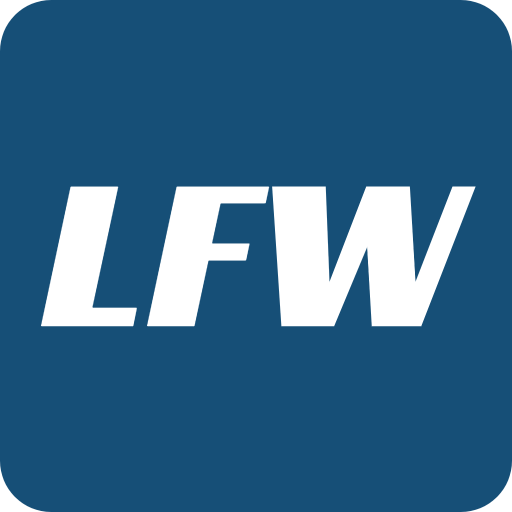
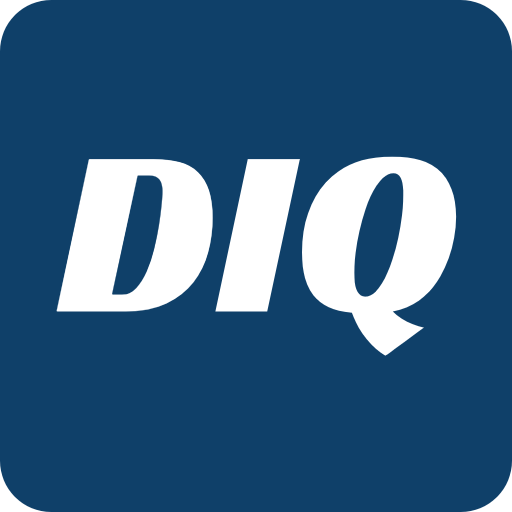
DIQ-setup: continued — Note special items
DIQ has custom templates for /server/templates/magazine/index.marko and /server/templates/subscribe/index.marko, as well as an additional template in /server/templates/website-section —> products-free-samples.marko

Changed region(s): [[0.0625, 0.2812, 0.9375, 0.6875]]

diff --git a/sites/dentistryiq/config/gam.js b/sites/dentistryiq/config/gam.js
@@ -31,45 +31,85 @@ config
     { name: 'load-more', templateName: 'CONTENT', path: 'dental-hygiene/load-more' },
     { name: 'reskin', path: 'dental-hygiene/reskin' },
   ])
-  .setAliasAdUnits('lasers-sources', [
-    { name: 'lb1', templateName: 'LB', path: 'lasers-sources/lb1' },
-    { name: 'lb2', templateName: 'LB', path: 'lasers-sources/lb2' },
-    { name: 'rail1', templateName: 'CONTENT', path: 'lasers-sources/rail1' },
-    { name: 'rail2', templateName: 'CONTENT', path: 'lasers-sources/rail2' },
-    { name: 'load-more', templateName: 'CONTENT', path: 'lasers-sources/load-more' },
-    { name: 'reskin', path: 'lasers-sources/reskin' },
+  .setAliasAdUnits('dental-hygiene/student-hygiene', [
+    { name: 'lb1', templateName: 'LB', path: 'dental-hygiene/student-hygiene/lb1' },
+    { name: 'lb2', templateName: 'LB', path: 'dental-hygiene/student-hygiene/lb2' },
+    { name: 'rail1', templateName: 'CONTENT', path: 'dental-hygiene/student-hygiene/rail1' },
+    { name: 'rail2', templateName: 'CONTENT', path: 'dental-hygiene/student-hygiene/rail2' },
+    { name: 'load-more', templateName: 'CONTENT', path: 'dental-hygiene/student-hygiene/load-more' },
+    { name: 'reskin', path: 'dental-hygiene/student-hygiene/reskin' },
   ])
-  .setAliasAdUnits('optics', [
-    { name: 'lb1', templateName: 'LB', path: 'optics/lb1' },
-    { name: 'lb2', templateName: 'LB', path: 'optics/lb2' },
-    { name: 'rail1', templateName: 'CONTENT', path: 'optics/rail1' },
-    { name: 'rail2', templateName: 'CONTENT', path: 'optics/rail2' },
-    { name: 'load-more', templateName: 'CONTENT', path: 'optics/load-more' },
-    { name: 'reskin', path: 'optics/reskin' },
+  .setAliasAdUnits('clinical', [
+    { name: 'lb1', templateName: 'LB', path: 'clinical/lb1' },
+    { name: 'lb2', templateName: 'LB', path: 'clinical/lb2' },
+    { name: 'rail1', templateName: 'CONTENT', path: 'clinical/rail1' },
+    { name: 'rail2', templateName: 'CONTENT', path: 'clinical/rail2' },
+    { name: 'load-more', templateName: 'CONTENT', path: 'clinical/load-more' },
+    { name: 'reskin', path: 'clinical/reskin' },
   ])
-  .setAliasAdUnits('fiber-optics', [
-    { name: 'lb1', templateName: 'LB', path: 'fiber-optics/lb1' },
-    { name: 'lb2', templateName: 'LB', path: 'fiber-optics/lb2' },
-    { name: 'rail1', templateName: 'CONTENT', path: 'fiber-optics/rail1' },
-    { name: 'rail2', templateName: 'CONTENT', path: 'fiber-optics/rail2' },
-    { name: 'load-more', templateName: 'CONTENT', path: 'fiber-optics/load-more' },
-    { name: 'reskin', path: 'fiber-optics/reskin' },
+  .setAliasAdUnits('clinical/endodontics', [
+    { name: 'lb1', templateName: 'LB', path: 'clinical/endodontics/lb1' },
+    { name: 'lb2', templateName: 'LB', path: 'clinical/endodontics/lb2' },
+    { name: 'rail1', templateName: 'CONTENT', path: 'clinical/endodontics/rail1' },
+    { name: 'rail2', templateName: 'CONTENT', path: 'clinical/endodontics/rail2' },
+    { name: 'load-more', templateName: 'CONTENT', path: 'clinical/endodontics/load-more' },
+    { name: 'reskin', path: 'clinical/endodontics/reskin' },
   ])
-  .setAliasAdUnits('software-accessories', [
-    { name: 'lb1', templateName: 'LB', path: 'software-accessories/lb1' },
-    { name: 'lb2', templateName: 'LB', path: 'software-accessories/lb2' },
-    { name: 'rail1', templateName: 'CONTENT', path: 'software-accessories/rail1' },
-    { name: 'rail2', templateName: 'CONTENT', path: 'software-accessories/rail2' },
-    { name: 'load-more', templateName: 'CONTENT', path: 'software-accessories/load-more' },
-    { name: 'reskin', path: 'software-accessories/reskin' },
+  .setAliasAdUnits('clinical/orthodontics', [
+    { name: 'lb1', templateName: 'LB', path: 'clinical/orthodontics/lb1' },
+    { name: 'lb2', templateName: 'LB', path: 'clinical/orthodontics/lb2' },
+    { name: 'rail1', templateName: 'CONTENT', path: 'clinical/orthodontics/rail1' },
+    { name: 'rail2', templateName: 'CONTENT', path: 'clinical/orthodontics/rail2' },
+    { name: 'load-more', templateName: 'CONTENT', path: 'clinical/orthodontics/load-more' },
+    { name: 'reskin', path: 'clinical/orthodontics/reskin' },
   ])
-  .setAliasAdUnits('test-measurement', [
-    { name: 'lb1', templateName: 'LB', path: 'test-measurement/lb1' },
-    { name: 'lb2', templateName: 'LB', path: 'test-measurement/lb2' },
-    { name: 'rail1', templateName: 'CONTENT', path: 'test-measurement/rail1' },
-    { name: 'rail2', templateName: 'CONTENT', path: 'test-measurement/rail2' },
-    { name: 'load-more', templateName: 'CONTENT', path: 'test-measurement/load-more' },
-    { name: 'reskin', path: 'test-measurement/reskin' },
+  .setAliasAdUnits('clinical/prosthodontics-and-laboratory', [
+    { name: 'lb1', templateName: 'LB', path: 'clinical/prosthodontics-and-laboratory/lb1' },
+    { name: 'lb2', templateName: 'LB', path: 'clinical/prosthodontics-and-laboratory/lb2' },
+    { name: 'rail1', templateName: 'CONTENT', path: 'clinical/prosthodontics-and-laboratory/rail1' },
+    { name: 'rail2', templateName: 'CONTENT', path: 'clinical/prosthodontics-and-laboratory/rail2' },
+    { name: 'load-more', templateName: 'CONTENT', path: 'clinical/prosthodontics-and-laboratory/load-more' },
+    { name: 'reskin', path: 'clinical/prosthodontics-and-laboratory/reskin' },
+  ])
+  .setAliasAdUnits('products', [
+    { name: 'lb1', templateName: 'LB', path: 'products/lb1' },
+    { name: 'lb2', templateName: 'LB', path: 'products/lb2' },
+    { name: 'rail1', templateName: 'CONTENT', path: 'products/rail1' },
+    { name: 'rail2', templateName: 'CONTENT', path: 'products/rail2' },
+    { name: 'load-more', templateName: 'CONTENT', path: 'products/load-more' },
+    { name: 'reskin', path: 'products/reskin' },
+  ])
+  .setAliasAdUnits('products/free-samples', [
+    { name: 'lb1', templateName: 'LB', path: 'products/free-samples/lb1' },
+    { name: 'lb2', templateName: 'LB', path: 'products/free-samples/lb2' },
+    { name: 'rail1', templateName: 'CONTENT', path: 'products/free-samples/rail1' },
+    { name: 'rail2', templateName: 'CONTENT', path: 'products/free-samples/rail2' },
+    { name: 'load-more', templateName: 'CONTENT', path: 'products/free-samples/load-more' },
+    { name: 'reskin', path: 'products/free-samples/reskin' },
+  ])
+  .setAliasAdUnits('practice-management', [
+    { name: 'lb1', templateName: 'LB', path: 'practice-management/lb1' },
+    { name: 'lb2', templateName: 'LB', path: 'practice-management/lb2' },
+    { name: 'rail1', templateName: 'CONTENT', path: 'practice-management/rail1' },
+    { name: 'rail2', templateName: 'CONTENT', path: 'practice-management/rail2' },
+    { name: 'load-more', templateName: 'CONTENT', path: 'practice-management/load-more' },
+    { name: 'reskin', path: 'practice-management/reskin' },
+  ])
+  .setAliasAdUnits('front-office', [
+    { name: 'lb1', templateName: 'LB', path: 'front-office/lb1' },
+    { name: 'lb2', templateName: 'LB', path: 'front-office/lb2' },
+    { name: 'rail1', templateName: 'CONTENT', path: 'front-office/rail1' },
+    { name: 'rail2', templateName: 'CONTENT', path: 'front-office/rail2' },
+    { name: 'load-more', templateName: 'CONTENT', path: 'front-office/load-more' },
+    { name: 'reskin', path: 'front-office/reskin' },
+  ])
+  .setAliasAdUnits('dental-assisting', [
+    { name: 'lb1', templateName: 'LB', path: 'dental-assisting/lb1' },
+    { name: 'lb2', templateName: 'LB', path: 'dental-assisting/lb2' },
+    { name: 'rail1', templateName: 'CONTENT', path: 'dental-assisting/rail1' },
+    { name: 'rail2', templateName: 'CONTENT', path: 'dental-assisting/rail2' },
+    { name: 'load-more', templateName: 'CONTENT', path: 'dental-assisting/load-more' },
+    { name: 'reskin', path: 'dental-assisting/reskin' },
   ]);
 
 module.exports = config;

diff --git a/sites/dentistryiq/config/navigation.js b/sites/dentistryiq/config/navigation.js
@@ -1,24 +1,21 @@
 module.exports = {
   primary: {
     items: [
-      { href: '/detectors-imaging', label: 'Detectors & Imaging' },
-      { href: '/lasers-sources', label: 'Lasers & Sources' },
-      { href: '/optics', label: 'Optics' },
-      { href: '/fiber-optics', label: 'Fiber Optics' },
-      { href: '/software-accessories', label: 'Software & Accessories' },
-      { href: '/test-measurement', label: 'Test & Measurement' },
+      { href: '/dental-hygiene', label: 'Dental Hygiene' },
+      { href: '/clinical', label: 'Clinical' },
+      { href: '/products', label: 'Products' },
+      { href: '/practice-management', label: 'Practice Management' },
+      { href: '/front-office', label: 'Front Office' },
+      { href: '/dental-assisting', label: 'Dental Assisting' },
     ],
   },
   secondary: {
     items: [
       { href: '/subscribe', label: 'Subscribe' },
-      { href: '/magazine', label: 'Magazine' },
       { href: '/videos', label: 'Videos' },
-      { href: '/white-papers', label: 'White Papers' },
-      { href: '/webcasts', label: 'Webcasts' },
-      { href: 'https://buyersguide.laserfocusworld.com/index.html', label: 'Buyer\'s Guide', target: '_blank' },
-      { href: 'https://laserfocusworldinnovators.secure-platform.com/a', label: 'Awards', target: '_blank' },
-      { href: 'https://www.marketplaceseminar.com/index.html', label: 'L&P Market Seminar', target: '_blank' },
+      { href: '/page/about-us', label: 'About Us' },
+      { href: 'https://pennwell.myabsorb.com', label: 'Earn CE', target: '_blank' },
+      { href: '/products/free-samples', label: 'Free Samples' },
     ],
   },
   tertiary: {
@@ -39,28 +36,26 @@ module.exports = {
     {
       label: 'Topics',
       items: [
-        { href: '/detectors-imaging', label: 'Detectors & Imaging' },
-        { href: '/lasers-sources', label: 'Lasers & Sources' },
-        { href: '/optics', label: 'Optics' },
-        { href: '/fiber-optics', label: 'Fiber Optics' },
-        { href: '/software-accessories', label: 'Software & Accessories' },
-        { href: '/test-measurement', label: 'Test & Measurement' },
-        { href: '/photonics-business', label: 'Photonics Business' },
+        { href: '/dental-hygiene', label: 'Dental Hygiene' },
+        { href: '/clinical', label: 'Clinical' },
+        { href: '/products', label: 'Products' },
+        { href: '/practice-management', label: 'Practice Management' },
+        { href: '/front-office', label: 'Front Office' },
+        { href: '/dental-assisting', label: 'Dental Assisting' },
       ],
     },
     {
       label: 'Resources',
       items: [
-        { href: '/blogs', label: 'Commentary' },
+        { href: '/front-office/office-forms', label: 'Front Office Forms' },
         { href: '/magazine', label: 'Magazine' },
         { href: '/videos', label: 'Videos' },
         { href: '/white-papers', label: 'White Papers' },
         { href: '/webcasts', label: 'Webcasts' },
-        { href: '/events', label: 'Events' },
-        { href: 'https://buyersguide.laserfocusworld.com/index.html', label: 'Buyer\'s Guide', target: '_blank' },
-        { href: 'https://laserfocusworldinnovators.secure-platform.com/a', label: 'Awards', target: '_blank' },
-        { href: 'https://www.marketplaceseminar.com/index.html', label: 'L&P Market Seminar', target: '_blank' },
-        { href: 'https://www.strategies-u.com/reports', label: 'Photonics Market Reports', target: '_blank' },
+        { href: '/blogs', label: 'Blogs' },
+        { href: '/page/submission-guidelines', label: 'Submission Guidelines' },
+        { href: 'https://pennwell.myabsorb.com', label: 'Earn CE', target: '_blank' },
+        { href: '/products/free-samples', label: 'Free Samples' },
       ],
     },
     {

diff --git a/sites/dentistryiq/config/native-x.js b/sites/dentistryiq/config/native-x.js
@@ -4,39 +4,39 @@ const config = new NativeXConfiguration('https://ebm.native-x.io');
 
 config
   .setAliasPlacements('default', [
-    { name: 'card', id: '5cdb230339937800010ea6ca' },
-    { name: 'list2', id: '5cdb2308f41dfb0001fce77f' },
-    { name: 'list1', id: '5cdb230ef41dfb0001fce866' },
+    { name: 'card', id: '5cdb19ca39937800010d19fc' },
+    { name: 'list2', id: '5cdb19ca39937800010d19fc' },
+    { name: 'list1', id: '5cdb19ca39937800010d19fc' },
   ])
-  .setAliasPlacements('optics', [
-    { name: 'card', id: '5cdb234939937800010eb292' },
-    { name: 'list2', id: '5cdb234ff41dfb0001fcf381' },
-    { name: 'list1', id: '5cdb235639937800010eb470' },
+  .setAliasPlacements('clinical', [
+    { name: 'card', id: '5cdb1a1af41dfb0001fb636a' },
+    { name: 'list2', id: '5cdb1a1af41dfb0001fb636a' },
+    { name: 'list1', id: '5cdb1a1af41dfb0001fb636a' },
   ])
-  .setAliasPlacements('lasers-sources', [
-    { name: 'card', id: '5cdb2332f41dfb0001fceed9' },
-    { name: 'list2', id: '5cdb233839937800010eb001' },
-    { name: 'list1', id: '5cdb233f39937800010eb0eb' },
+  .setAliasPlacements('dental-assisting', [
+    { name: 'card', id: '5cdb1a9139937800010d416f' },
+    { name: 'list2', id: '5cdb1a9139937800010d416f' },
+    { name: 'list1', id: '5cdb1a9139937800010d416f' },
   ])
-  .setAliasPlacements('detectors-imaging', [
-    { name: 'card', id: '5cdb231839937800010eaa5d' },
-    { name: 'list2', id: '5cdb231ef41dfb0001fcec01' },
-    { name: 'list1', id: '5cdb232639937800010ead76' },
+  .setAliasPlacements('dental-hygiene', [
+    { name: 'card', id: '5cdb19f1f41dfb0001fb5bb5' },
+    { name: 'list2', id: '5cdb19f1f41dfb0001fb5bb5' },
+    { name: 'list1', id: '5cdb19f1f41dfb0001fb5bb5' },
   ])
-  .setAliasPlacements('test-measurement', [
-    { name: 'card', id: '5cdb2388f41dfb0001fcfb50' },
-    { name: 'list2', id: '5cdb238f39937800010ebcb9' },
-    { name: 'list1', id: '5cdb239539937800010ebd85' },
+  .setAliasPlacements('practice-management', [
+    { name: 'card', id: '5cdb1a5439937800010d35e3' },
+    { name: 'list2', id: '5cdb1a5439937800010d35e3' },
+    { name: 'list1', id: '5cdb1a5439937800010d35e3' },
   ])
-  .setAliasPlacements('software-accessories', [
-    { name: 'card', id: '5cdb237339937800010eb873' },
-    { name: 'list2', id: '5cdb2379f41dfb0001fcf91f' },
-    { name: 'list1', id: '5cdb237f39937800010eba5b' },
+  .setAliasPlacements('products', [
+    { name: 'card', id: '5cdb1a33f41dfb0001fb69d6' },
+    { name: 'list2', id: '5cdb1a33f41dfb0001fb69d6' },
+    { name: 'list1', id: '5cdb1a33f41dfb0001fb69d6' },
   ])
-  .setAliasPlacements('fiber-optics', [
-    { name: 'card', id: '5cdb235d39937800010eb580' },
-    { name: 'list2', id: '5cdb236339937800010eb685' },
-    { name: 'list1', id: '5cdb2369f41dfb0001fcf737' },
+  .setAliasPlacements('front-office', [
+    { name: 'card', id: '5cdb1a7339937800010d3c98' },
+    { name: 'list2', id: '5cdb1a7339937800010d3c98' },
+    { name: 'list1', id: '5cdb1a7339937800010d3c98' },
   ]);
 
 module.exports = config;

diff --git a/sites/dentistryiq/config/site.js b/sites/dentistryiq/config/site.js
@@ -5,25 +5,25 @@ module.exports = {
   company: 'Endeavor Business Media, LLC',
   logos: {
     navbar: {
-      src: 'https://base.imgix.net/files/base/pennwell/lfw/logo.png?h=45',
+      src: 'https://base.imgix.net/files/base/pennwell/diq/logo.png?h=45',
       srcset: [
-        'https://base.imgix.net/files/base/pennwell/lfw/logo.png?h=90 2x',
+        'https://base.imgix.net/files/base/pennwell/diq/logo.png?h=90 2x',
       ],
     },
     footer: {
-      src: 'https://base.imgix.net/files/base/pennwell/lfw/logo.png?h=60',
+      src: 'https://base.imgix.net/files/base/pennwell/diq/logo.png?h=60',
       srcset: [
-        'https://base.imgix.net/files/base/pennwell/lfw/logo.png?h=120 2x',
+        'https://base.imgix.net/files/base/pennwell/diq/logo.png?h=120 2x',
       ],
     },
   },
   socialMediaLinks: [
-    { provider: 'linkedin', href: 'http://www.linkedin.com/groups/Laser-Focus-World-2896249' },
-    { provider: 'twitter', href: 'https://twitter.com/LaserFocusWorld' },
-    { provider: 'facebook', href: 'https://www.facebook.com/pages/Laser-Focus-World/126899915297' },
+    { provider: 'linkedin', href: 'https://www.linkedin.com/company/dentistry-iq' },
+    { provider: 'twitter', href: 'https://twitter.com/dentistryiq' },
+    { provider: 'facebook', href: 'https://www.facebook.com/DentistryIQ' },
   ],
   gtm: {
-    containerId: 'GTM-M7H8VJG',
+    containerId: 'GTM-MNNGJ32',
   },
   wufoo: {
     userName: 'cygnuscorporate',

diff --git a/sites/dentistryiq/server/styles/index.scss b/sites/dentistryiq/server/styles/index.scss
@@ -1,21 +1,19 @@
-$primary: #164f77;
-$secondary: #495057;
-$light: #e9ecef;
-$dark: #212529;
-$info: #6c757d;
+$primary: #0f4069 !default;
+$secondary: #495057; // equivalent to default gray-700
+$light: #e9ecef !default; // equivalent to default gray-200
+$dark: #212529 !default; // equivalent to default gray-900
+$info: #6c757d !default; // equivalent to default gray-600
 
-$theme-site-navbar-secondary-bg-color: #002e4f;
-$theme-site-navbar-primary-bg-color: $primary;
-
-$theme-site-navbar-logo-height: 45px;
-$theme-site-navbar-logo-height-sm: 25px;
+$theme-site-navbar-primary-bg-color: #0f4069;
+$theme-site-navbar-secondary-bg-color: #fff;
+$theme-site-navbar-secondary-type: light;
 
 $theme-site-header-breakpoints: (
-  hide-primary: 832px,
-  hide-secondary: 906px,
-  small-logo: 1015px,
-  small-text-primary: 932px,
-  small-text-secondary: 1105px
+  hide-primary: 706px,
+  hide-secondary: 550px,
+  small-logo: 696px,
+  small-text-primary: 810px,
+  small-text-secondary: 598px
 );
 
 @import "../../node_modules/@base-cms/marko-web-gam/scss/fixed-ad-bottom";

diff --git a/sites/dentistryiq/config/gcse.js b/sites/dentistryiq/config/gcse.js
@@ -1,5 +1,5 @@
 const GCSEConfiguration = require('@base-cms/marko-web-gcse/config');
 
-const config = new GCSEConfiguration('003355913687346718228:9fw7nfvu5hw');
+const config = new GCSEConfiguration('003355913687346718228:prps-rbhnq0');
 
 module.exports = config;

diff --git a/README.md b/README.md
@@ -72,6 +72,7 @@ Next, update the following files:
 ```diff
 # /sites/mynewsite/config/native-x.js
 # Add/Remove setAliasPlacements values as needed
+# Note - ID values for card, list1, and list2 should all use card ID
 ```
 
 ```diff
